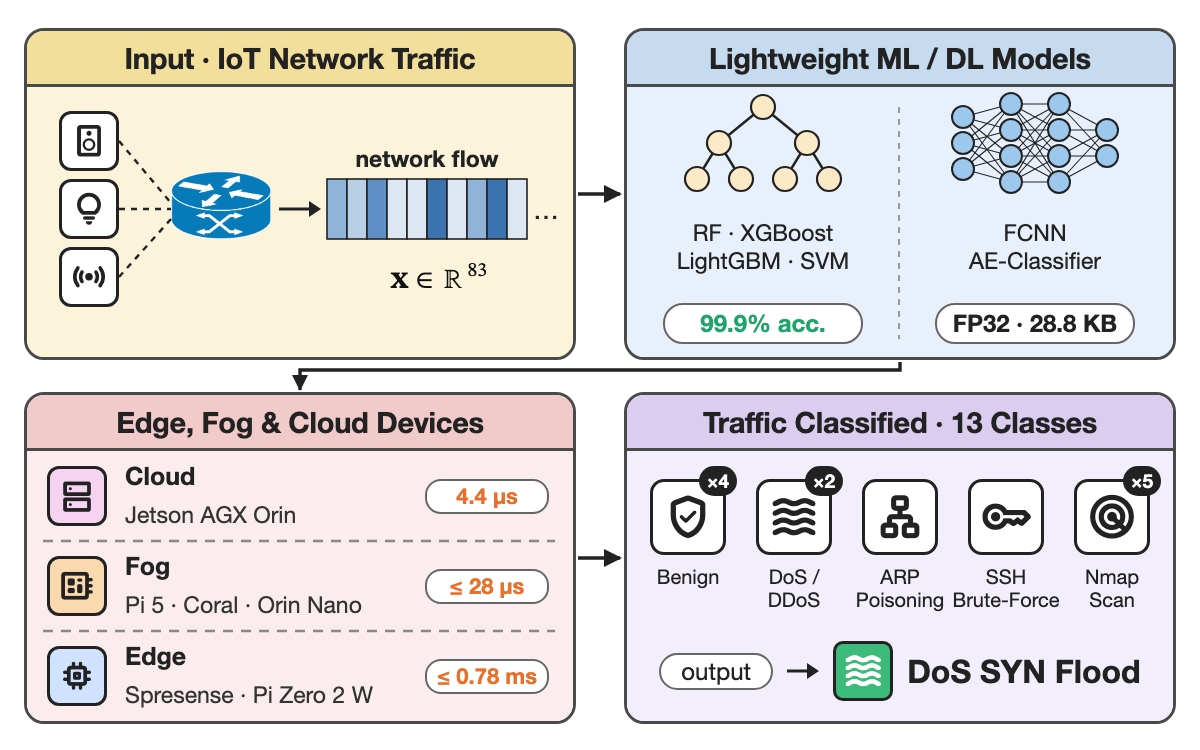
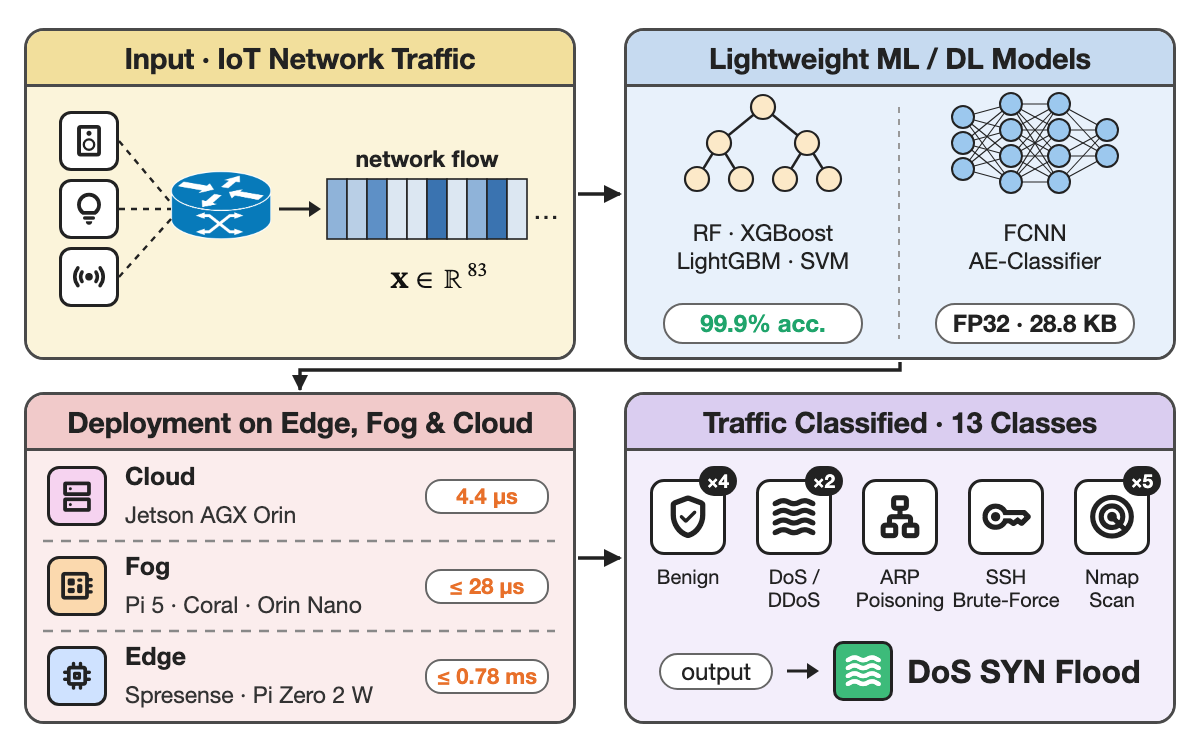
Rebuilt figure for the student-engagement paper; IDS deployment panel retitled
Student engagement gets the same 2x2 panel figure as the other papers
(webcam frame, MobileNetV1 QAT, deployment on 8 edge devices, engagement
state). The IDS deployment panel now reads "Deployment on Edge, Fog &
Cloud" to match the other figures.

Changed region(s): [[0.0308, 0.552, 0.4625, 0.5827]]

diff --git a/_figures/student-engagement.html b/_figures/student-engagement.html
@@ -1,0 +1,129 @@
+<!doctype html><html><head><meta charset="utf-8"><link href="https://fonts.googleapis.com/css2?family=Material+Symbols+Rounded:opsz,wght,FILL,GRAD@40,500,0,0" rel="stylesheet"><link href="https://fonts.googleapis.com/css2?family=STIX+Two+Text:ital,wght@0,400;0,700;1,400;1,700&display=swap" rel="stylesheet"><style>
+.m{font-family:"STIX Two Text",serif;font-size:16px;color:#111}.m b{font-weight:700}.m i{font-style:italic;font-weight:700}.m sub{font-size:.7em;vertical-align:-.25em;font-style:italic}
+html,body{margin:0;background:#fff}*{box-sizing:border-box}
+.f{width:600px;height:375px;position:relative;overflow:hidden;background:#fff;font-family:"Helvetica Neue",Helvetica,Arial,sans-serif;color:#222}
+.p{position:absolute;width:276px;height:166px;border:1.5px solid #4A4A4A;border-radius:10px;overflow:hidden}
+.p h4{margin:0;height:28px;line-height:27px;font-size:14.5px;font-weight:700;text-align:center;border-bottom:1.5px solid #4A4A4A;letter-spacing:-.01em}
+.b{height:136px;position:relative}
+.lav h4{background:#F2DF9C}.lav .b{background:#FBF4DA}
+.blu h4{background:#C6DAF0}.blu .b{background:#E8F1FB}
+.gry h4{background:#F1CACA}.gry .b{background:#FBEDED}
+.yel h4{background:#DACDF0}.yel .b{background:#F3EEFB}
+.plots{display:flex;gap:10px;justify-content:center;padding-top:14px}
+.plots div{width:124px;text-align:center}.plots img{width:124px;display:block;border:1px solid #999;border-radius:3px;background:#fff}
+.plots span{display:block;font-size:13px;color:#222;margin-top:5px}
+.cap{position:absolute;left:0;right:0;bottom:8px;text-align:center;font-size:11.5px;color:#333;line-height:1.3}
+.hw{display:flex;gap:12px;align-items:center;padding:14px 10px 0 12px}
+.hw img{width:140px;display:block;border-radius:3px;border:1px solid #999}
+.hw div{font-size:12.5px;line-height:1.5;color:#222;white-space:nowrap}
+.hw b{display:block;font-size:14px;color:#222;margin-bottom:4px}
+.o{color:#E8702A}.g{color:#1FA46B}
+
+.ob{position:relative;height:136px}
+.tiles{position:absolute;left:0;right:0;top:16px;display:flex;justify-content:center;gap:10px}
+.tile{width:56px;text-align:center}
+.tile .ic{width:38px;height:38px;margin:0 auto;border:1.8px solid #222;border-radius:7px;background:#fff;display:flex;align-items:center;justify-content:center}
+.ms{font-family:'Material Symbols Rounded';font-size:25px;line-height:1;font-feature-settings:'liga';color:#222}
+.tile.on .ic{background:#3DBB7A}.tile.on .ms{color:#fff}
+.tile > span{display:block;font-size:12px;line-height:1.15;margin-top:5px;color:#222}
+.tile.on > span{font-weight:700}
+.am{position:absolute;left:0;right:0;bottom:11px;display:flex;justify-content:center;align-items:center;gap:7px}
+.am .pill{border:1.2px solid #666;border-radius:10px;background:#fff;padding:1px 10px;font-size:12px}
+.am .mini{width:30px;height:30px;border:1.6px solid #222;border-radius:5px;background:#3DBB7A;display:flex;align-items:center;justify-content:center}
+.am .mini .ms{font-size:21px;color:#fff}
+.am b{font-size:16px}
+
+.strip{width:250px;height:38px;margin:0 auto;overflow:hidden;border:1px solid #999;border-radius:3px;background:#fff;position:relative}
+.strip img{position:absolute;left:-4px;width:258px}
+.strips{display:flex;flex-direction:column;gap:14px;padding-top:24px}
+.blk{border:1.6px solid #222;border-radius:7px;display:flex;align-items:center;justify-content:center;text-align:center;font-size:12.5px;font-weight:700;line-height:1.15}
+.sa{background:#FCE9C8;border-style:dashed}.nv{background:#BDEFC8}.ca{background:#EBD6FA;border-style:dashed}
+
+.inp{padding-top:34px;text-align:center}
+.inp img{width:248px;display:block;margin:0 auto;border:1px solid #999;border-radius:3px}
+.blkp{display:flex;align-items:center;justify-content:center;gap:16px;height:136px}
+.blkp img{width:104px;height:104px;display:block;border:1px solid #999;border-radius:3px}
+.mm{font-family:"STIX Two Text",serif;font-size:16px;color:#111;margin-top:9px;display:block}
+.mm i{font-style:italic;font-weight:700}.mm sup{font-size:.62em}.mm sub{font-size:.7em;vertical-align:-.25em}
+.mini-blk{position:absolute;border:1.5px solid #222;border-radius:6px;display:flex;align-items:center;justify-content:center;text-align:center;font-size:11px;font-weight:700;line-height:1.1}
+
+.strip2{width:250px;height:38px;margin:0 auto;overflow:hidden;border:1px solid #999;border-radius:3px;background:#fff;position:relative}
+.strip2 img{position:absolute;left:0;width:250px}
+.strips2{display:flex;flex-direction:column;gap:8px;padding-top:10px}
+.bp{position:relative;height:136px}
+.bp img.blk{position:absolute;left:14px;top:9px;width:118px;height:118px;border:1px solid #999;border-radius:3px}
+
+.abs{position:absolute}
+.gly{position:absolute;width:30px;height:30px;display:flex;align-items:center;justify-content:center}
+.gly .ms{font-size:24px;color:#222}
+.cap2{position:absolute;font-size:11.5px;font-weight:700;text-align:center;color:#222;line-height:1.2}
+.pilltag{position:absolute;border:1.2px solid #666;border-radius:10px;background:#fff;padding:2px 0;font-size:12px;font-weight:700;text-align:center}
+.lvl{position:absolute;left:0;right:0;height:45px;display:flex;align-items:center;padding:0 12px;gap:10px}
+.lvl b{width:44px;font-size:12.5px}
+.lvl img{height:30px;width:auto}
+.lvl .ms{font-size:26px;color:#222;width:34px;text-align:center}
+.lvl span.d{font-size:12px;white-space:nowrap}
+.grp{position:absolute;left:12px;font-size:11px;font-weight:700;color:#555;width:46px;text-align:right}
+.trow{position:absolute;left:66px;display:flex;gap:6px}
+.t2{width:28px;height:28px;border:1.5px solid #222;border-radius:6px;background:#fff;display:flex;align-items:center;justify-content:center}
+.t2 .ms{font-size:19px;color:#222}
+
+.dtile{position:absolute;width:30px;height:30px;border:1.5px solid #222;border-radius:6px;background:#fff;display:flex;align-items:center;justify-content:center}
+.dtile .ms{font-size:19px;color:#222}
+.lv2{position:absolute;left:0;right:0;height:45px;display:flex;align-items:center;padding:0 10px;gap:8px}
+.lv2 .lt{width:30px;height:30px;border:1.5px solid #222;border-radius:6px;display:flex;align-items:center;justify-content:center;flex:none}
+.lv2 .lt .ms{font-size:19px;color:#222}
+.lv2 b{width:40px;font-size:12.5px;flex:none}
+.d2{font-size:12px;white-space:nowrap;color:#222;line-height:1.3}
+.lat{color:#E8702A;font-weight:600}
+.dc{border:1.2px solid #444;border-radius:5px;padding:2px 7px;font-size:11.5px;font-weight:600;white-space:nowrap}
+.edge{background:#CFE2FF}.fog{background:#FBD9AE}.cld{background:#F6D3F0}
+.lv3{position:absolute;left:0;right:0;height:45px;display:flex;align-items:center;padding:0 12px 0 10px;gap:9px}
+.lv3 .lt{width:30px;height:30px;border:1.5px solid #222;border-radius:6px;display:flex;align-items:center;justify-content:center;flex:none}
+.lv3 .lt .ms{font-size:19px;color:#222}
+.lv3 .nm{flex:1;line-height:1.25}
+.lv3 .nm b{display:block;font-size:12.5px}
+.lv3 .nm span{font-size:11.5px;color:#333;white-space:nowrap}
+.lv3 .lat2{flex:none;width:62px;font-size:11px;font-weight:700;color:#E8702A;white-space:nowrap;text-align:center;background:#fff;border:1px solid #666;border-radius:8px;padding:1px 0}
+.frm{position:absolute;width:104px;height:104px;overflow:hidden;border:1px solid #999;border-radius:3px;background:#fff}
+.frm img{position:absolute;left:-28px;top:-201px;width:484px}
+</style></head><body><div class="f">
+<div class="p lav" style="left:12px;top:14px"><h4>Input · Webcam Frame</h4><div class="b" style="position:relative">
+  <div class="dtile" style="left:12px;top:30px;width:44px;height:44px"><span class="ms" style="font-size:30px">videocam</span></div>
+  <div class="cap2" style="left:0;top:80px;width:68px">Webcam</div>
+  <svg width="272" height="136" class="abs" style="left:0;top:0"><path d="M62 52 H76" stroke="#222" stroke-width="1.5"/><path d="M75 48 L81 52 L75 56z" fill="#222"/></svg>
+  <div class="frm" style="left:86px;top:16px"><img src="assets/student-engagement-grid.png"></div>
+  <div class="dtile" style="left:214px;top:30px;width:44px;height:44px"><span class="ms" style="font-size:28px">lock</span></div>
+  <div class="cap2" style="left:198px;top:80px;width:76px">Stays on<br>device</div>
+</div></div>
+<div class="p blu" style="left:312px;top:14px"><h4>Quantization-Aware CNN</h4><div class="b" style="position:relative">
+  <svg width="272" height="136" class="abs" style="left:0;top:0">
+    <rect x="14" y="14" width="244" height="80" rx="8" fill="none" stroke="#222" stroke-width="1.2" stroke-dasharray="4 3"/>
+    <rect x="62" y="7" width="148" height="15" rx="3" fill="#E8F1FB"/><text x="136" y="18.5" text-anchor="middle" font-size="10.5" font-weight="700" fill="#222">MobileNetV1 · <tspan font-family="STIX Two Text,serif" font-style="italic" font-size="12.5">α</tspan> = 0.25 · QAT</text>
+    <path d="M30 32.0 L45.4 21.0 L51.4 21.0 L36 32.0z" fill="#CFE2FF" stroke="#222" stroke-width="1" stroke-linejoin="round" opacity="1"/><path d="M36 32.0 L51.4 21.0 L51.4 81.0 L36 92.0z" fill="#CFE2FF" stroke="#222" stroke-width="1" stroke-linejoin="round"/><rect x="30" y="32.0" width="6" height="60" fill="#CFE2FF" stroke="#222" stroke-width="1"/><path d="M63.4 37.0 L76.0 28.0 L84.0 28.0 L71.4 37.0z" fill="#B5D3F7" stroke="#222" stroke-width="1" stroke-linejoin="round" opacity="1"/><path d="M71.4 37.0 L84.0 28.0 L84.0 78.0 L71.4 87.0z" fill="#B5D3F7" stroke="#222" stroke-width="1" stroke-linejoin="round"/><rect x="63.4" y="37.0" width="8" height="50" fill="#B5D3F7" stroke="#222" stroke-width="1"/><path d="M96.0 42.0 L105.8 35.0 L116.8 35.0 L107.0 42.0z" fill="#9CC8EE" stroke="#222" stroke-width="1" stroke-linejoin="round" opacity="1"/><path d="M107.0 42.0 L116.8 35.0 L116.8 75.0 L107.0 82.0z" fill="#9CC8EE" stroke="#222" stroke-width="1" stroke-linejoin="round"/><rect x="96.0" y="42.0" width="11" height="40" fill="#9CC8EE" stroke="#222" stroke-width="1"/><path d="M128.8 46.5 L135.8 41.5 L149.8 41.5 L142.8 46.5z" fill="#7FB3E6" stroke="#222" stroke-width="1" stroke-linejoin="round" opacity="1"/><path d="M142.8 46.5 L149.8 41.5 L149.8 72.5 L142.8 77.5z" fill="#7FB3E6" stroke="#222" stroke-width="1" stroke-linejoin="round"/><rect x="128.8" y="46.5" width="14" height="31" fill="#7FB3E6" stroke="#222" stroke-width="1"/><path d="M161.8 51.0 L166.70000000000002 47.5 L184.70000000000002 47.5 L179.8 51.0z" fill="#5E9BDC" stroke="#222" stroke-width="1" stroke-linejoin="round" opacity="1"/><path d="M179.8 51.0 L184.70000000000002 47.5 L184.70000000000002 69.5 L179.8 73.0z" fill="#5E9BDC" stroke="#222" stroke-width="1" stroke-linejoin="round"/><rect x="161.8" y="51.0" width="18" height="22" fill="#5E9BDC" stroke="#222" stroke-width="1"/>
+    <path d="M196 60 H208" stroke="#222" stroke-width="1.3"/><path d="M207 56.5 L213 60 L207 63.5z" fill="#222"/>
+    <g stroke="#222" stroke-width="1"><circle cx="230" cy="40" r="7" fill="#9CC8EE"/><circle cx="230" cy="60" r="7" fill="#9CC8EE"/><circle cx="230" cy="80" r="7" fill="#9CC8EE"/></g>
+  </svg>
+  <div class="pilltag" style="left:18px;top:106px;width:110px;color:#1FA46B">93.6% acc.</div>
+  <div class="pilltag" style="left:144px;top:106px;width:110px">INT8 · 339 KB</div>
+</div></div>
+<div class="p gry" style="left:12px;top:196px"><h4>Deployment on 8 Edge Devices</h4><div class="b" style="position:relative">
+  <div class="lv3" style="top:0px"><span class="lt edge"><span class="ms">memory</span></span><div class="nm"><b>Microcontrollers</b><span>Spresense · OpenMV H7</span></div><span class="lat2" style="width:72px">≤ 12.8 FPS</span></div>
+  <div class="lv3" style="top:45px"><span class="lt fog"><span class="ms">developer_board</span></span><div class="nm"><b>Mid-Range</b><span>Pi Zero 2 W · Coral · Pi 5</span></div><span class="lat2" style="width:72px">≤ 455 FPS</span></div>
+  <div class="lv3" style="top:90px"><span class="lt cld"><span class="ms">speed</span></span><div class="nm"><b>High-End</b><span>Jetson Orin Nano · AGX</span></div><span class="lat2" style="width:72px">≈ 330 FPS</span></div>
+  <svg width="272" height="136" class="abs" style="left:0;top:0"><g stroke="#888" stroke-width="1.2" stroke-dasharray="5 4"><line x1="8" y1="45" x2="264" y2="45"/><line x1="8" y1="90" x2="264" y2="90"/></g></svg>
+</div></div>
+<div class="p yel" style="left:312px;top:196px"><h4>Engagement State · 3 Classes</h4><div class="b"><div class="ob"><div class="tiles" style="gap:22px;top:14px">
+  <div class="tile" style="width:60px"><div class="ic"><span class="ms">desktop_windows</span></div><span>Screen</span></div>
+  <div class="tile" style="width:60px"><div class="ic"><span class="ms">description</span></div><span>Paper</span></div>
+  <div class="tile" style="width:60px"><div class="ic"><span class="ms">visibility_off</span></div><span>Wander</span></div>
+</div><div class="am"><span class="pill">output</span><svg width="16" height="10"><path d="M0 5 H11" stroke="#222" stroke-width="1.6"/><path d="M10 1 L16 5 L10 9z" fill="#222"/></svg><span class="mini"><span class="ms">visibility_off</span></span><b style="font-size:15px">Wandering</b></div></div></div></div>
+<svg width="600" height="375" style="position:absolute;left:0;top:0;pointer-events:none">
+  <defs><marker id="d" markerUnits="userSpaceOnUse" markerWidth="8" markerHeight="8" refX="7.5" refY="4" orient="auto"><path d="M0 0 L8 4 L0 8z" fill="#222"/></marker><marker id="a" markerUnits="userSpaceOnUse" markerWidth="9" markerHeight="9" refX="8" refY="4.5" orient="auto"><path d="M0 0 L9 4.5 L0 9z" fill="#222"/></marker></defs>
+  <g stroke="#222" stroke-width="1.7" fill="none" marker-end="url(#a)">
+    <path d="M289 97 H310"/>
+    <path d="M450 181 V185 H150 V195" marker-end="url(#d)"/>
+    <path d="M289 279 H310"/>
+  </g>
+</svg>
+</div></body></html>

diff --git a/_figures/ids-iot.html b/_figures/ids-iot.html
@@ -100,7 +100,7 @@ html,body{margin:0;background:#fff}*{box-sizing:border-box}
   <div class="pilltag" style="left:18px;top:108px;width:100px;color:#1FA46B">99.9% acc.</div>
   <div class="pilltag" style="left:154px;top:108px;width:100px">FP32 · 28.8 KB</div>
 </div></div>
-<div class="p gry" style="left:12px;top:196px"><h4>Edge, Fog &amp; Cloud Devices</h4><div class="b" style="position:relative">
+<div class="p gry" style="left:12px;top:196px"><h4>Deployment on Edge, Fog &amp; Cloud</h4><div class="b" style="position:relative">
   <div class="lv3" style="top:0px"><span class="lt cld"><span class="ms">dns</span></span><div class="nm"><b>Cloud</b><span>Jetson AGX Orin</span></div><span class="lat2">4.4 µs</span></div>
   <div class="lv3" style="top:45px"><span class="lt fog"><span class="ms">developer_board</span></span><div class="nm"><b>Fog</b><span>Pi 5 · Coral · Orin Nano</span></div><span class="lat2">≤ 28 µs</span></div>
   <div class="lv3" style="top:90px"><span class="lt edge"><span class="ms">memory</span></span><div class="nm"><b>Edge</b><span>Spresense · Pi Zero 2 W</span></div><span class="lat2">≤ 0.78 ms</span></div>
